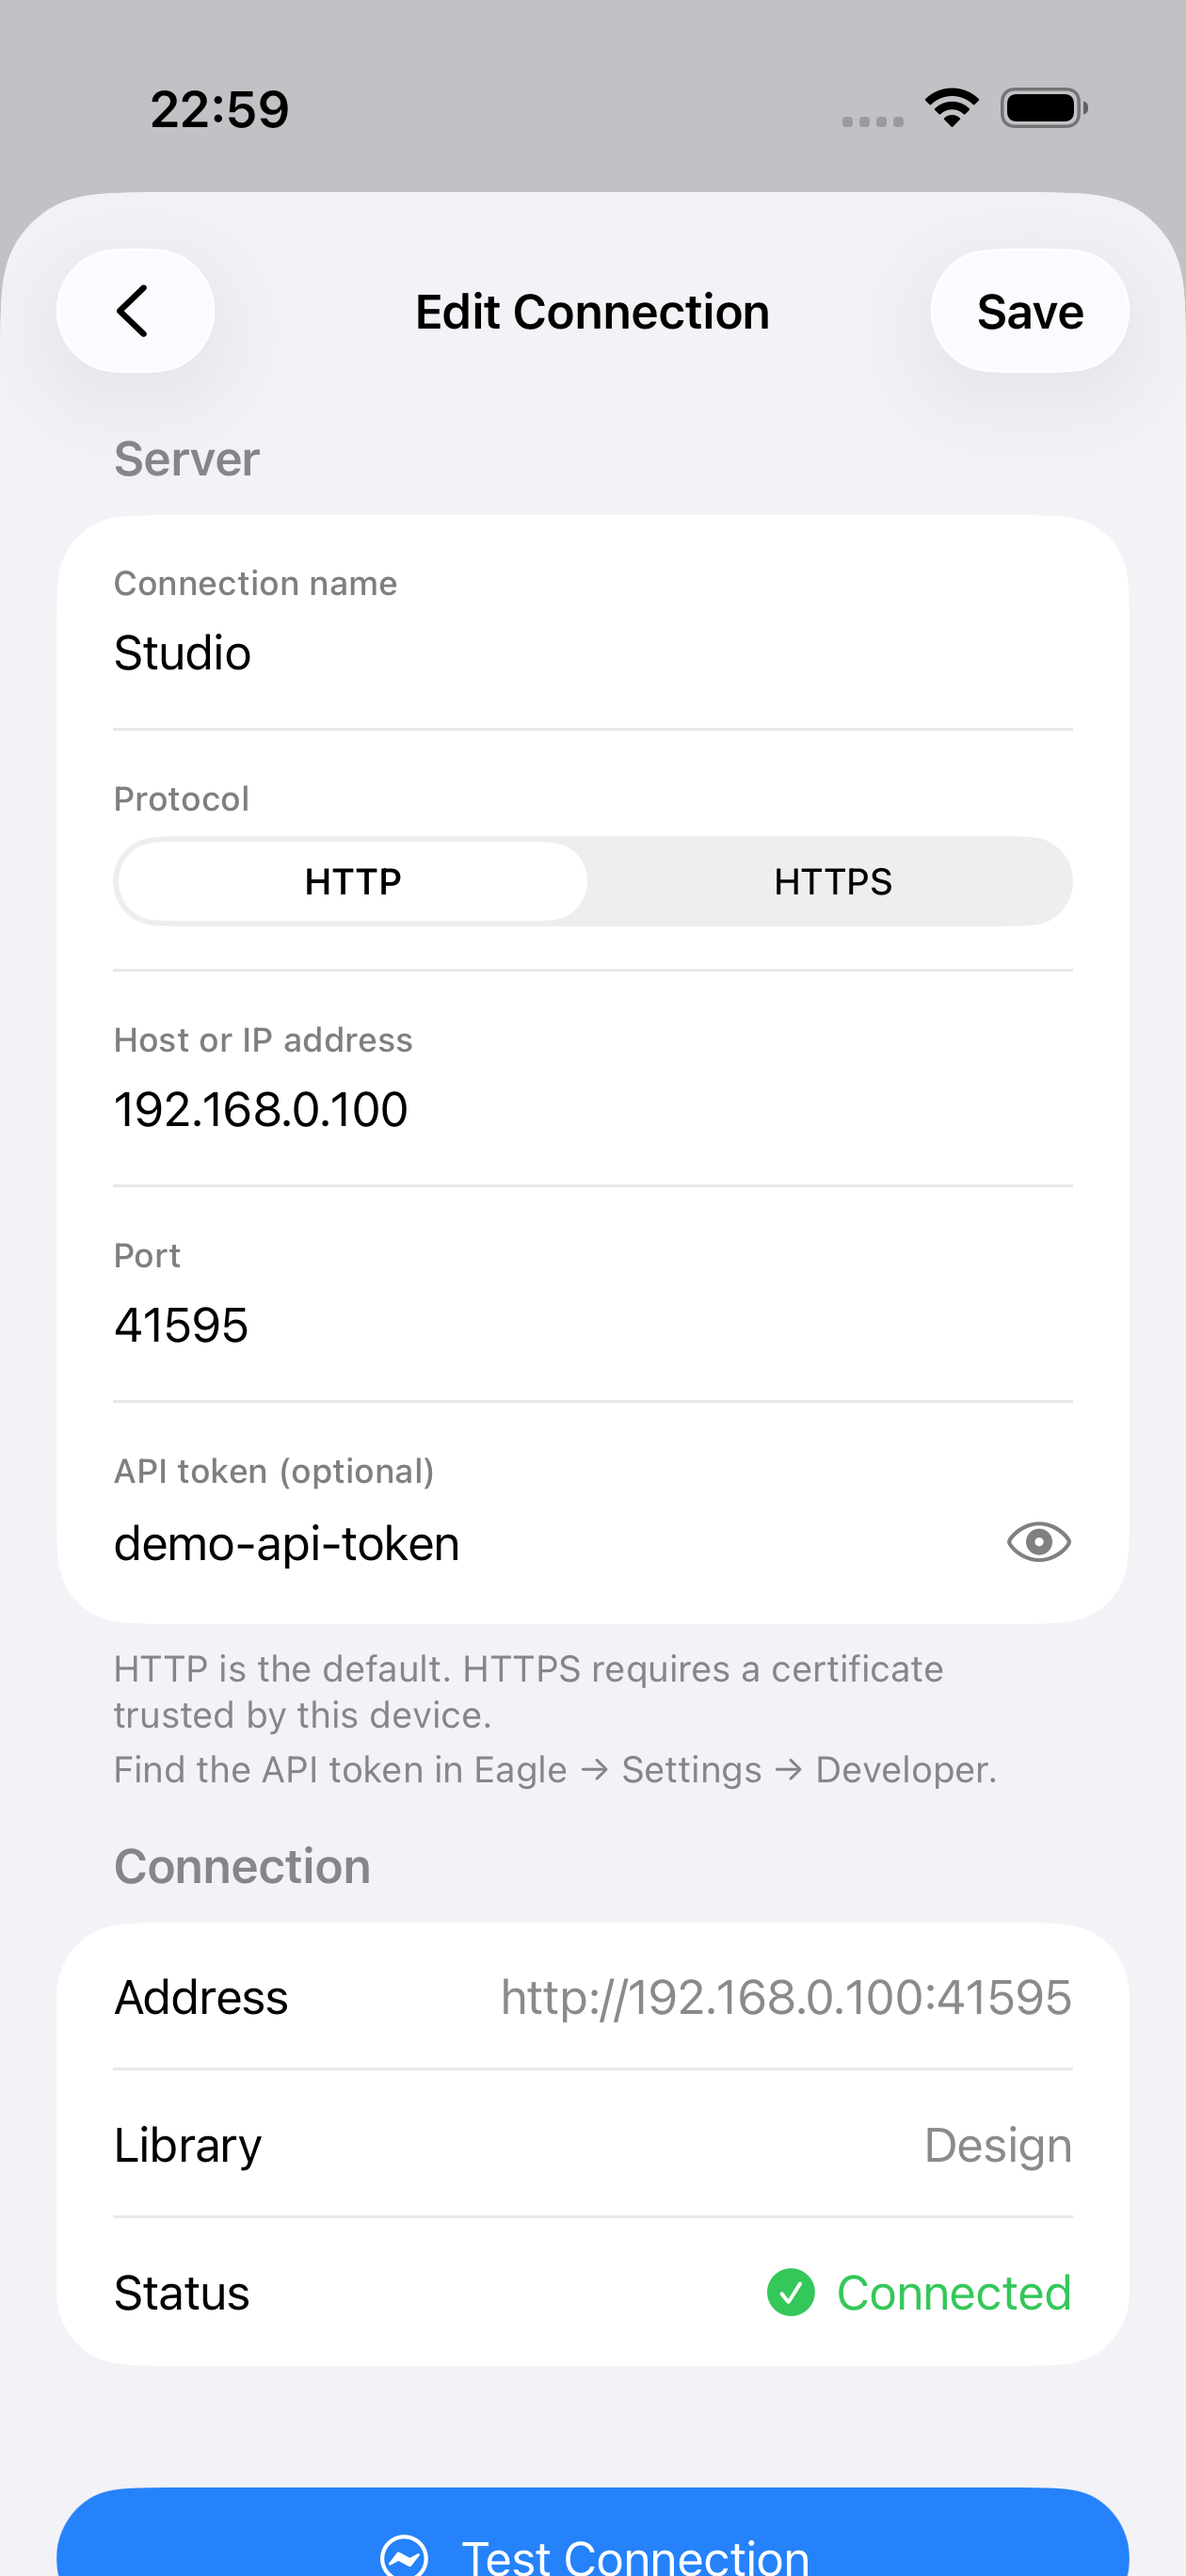
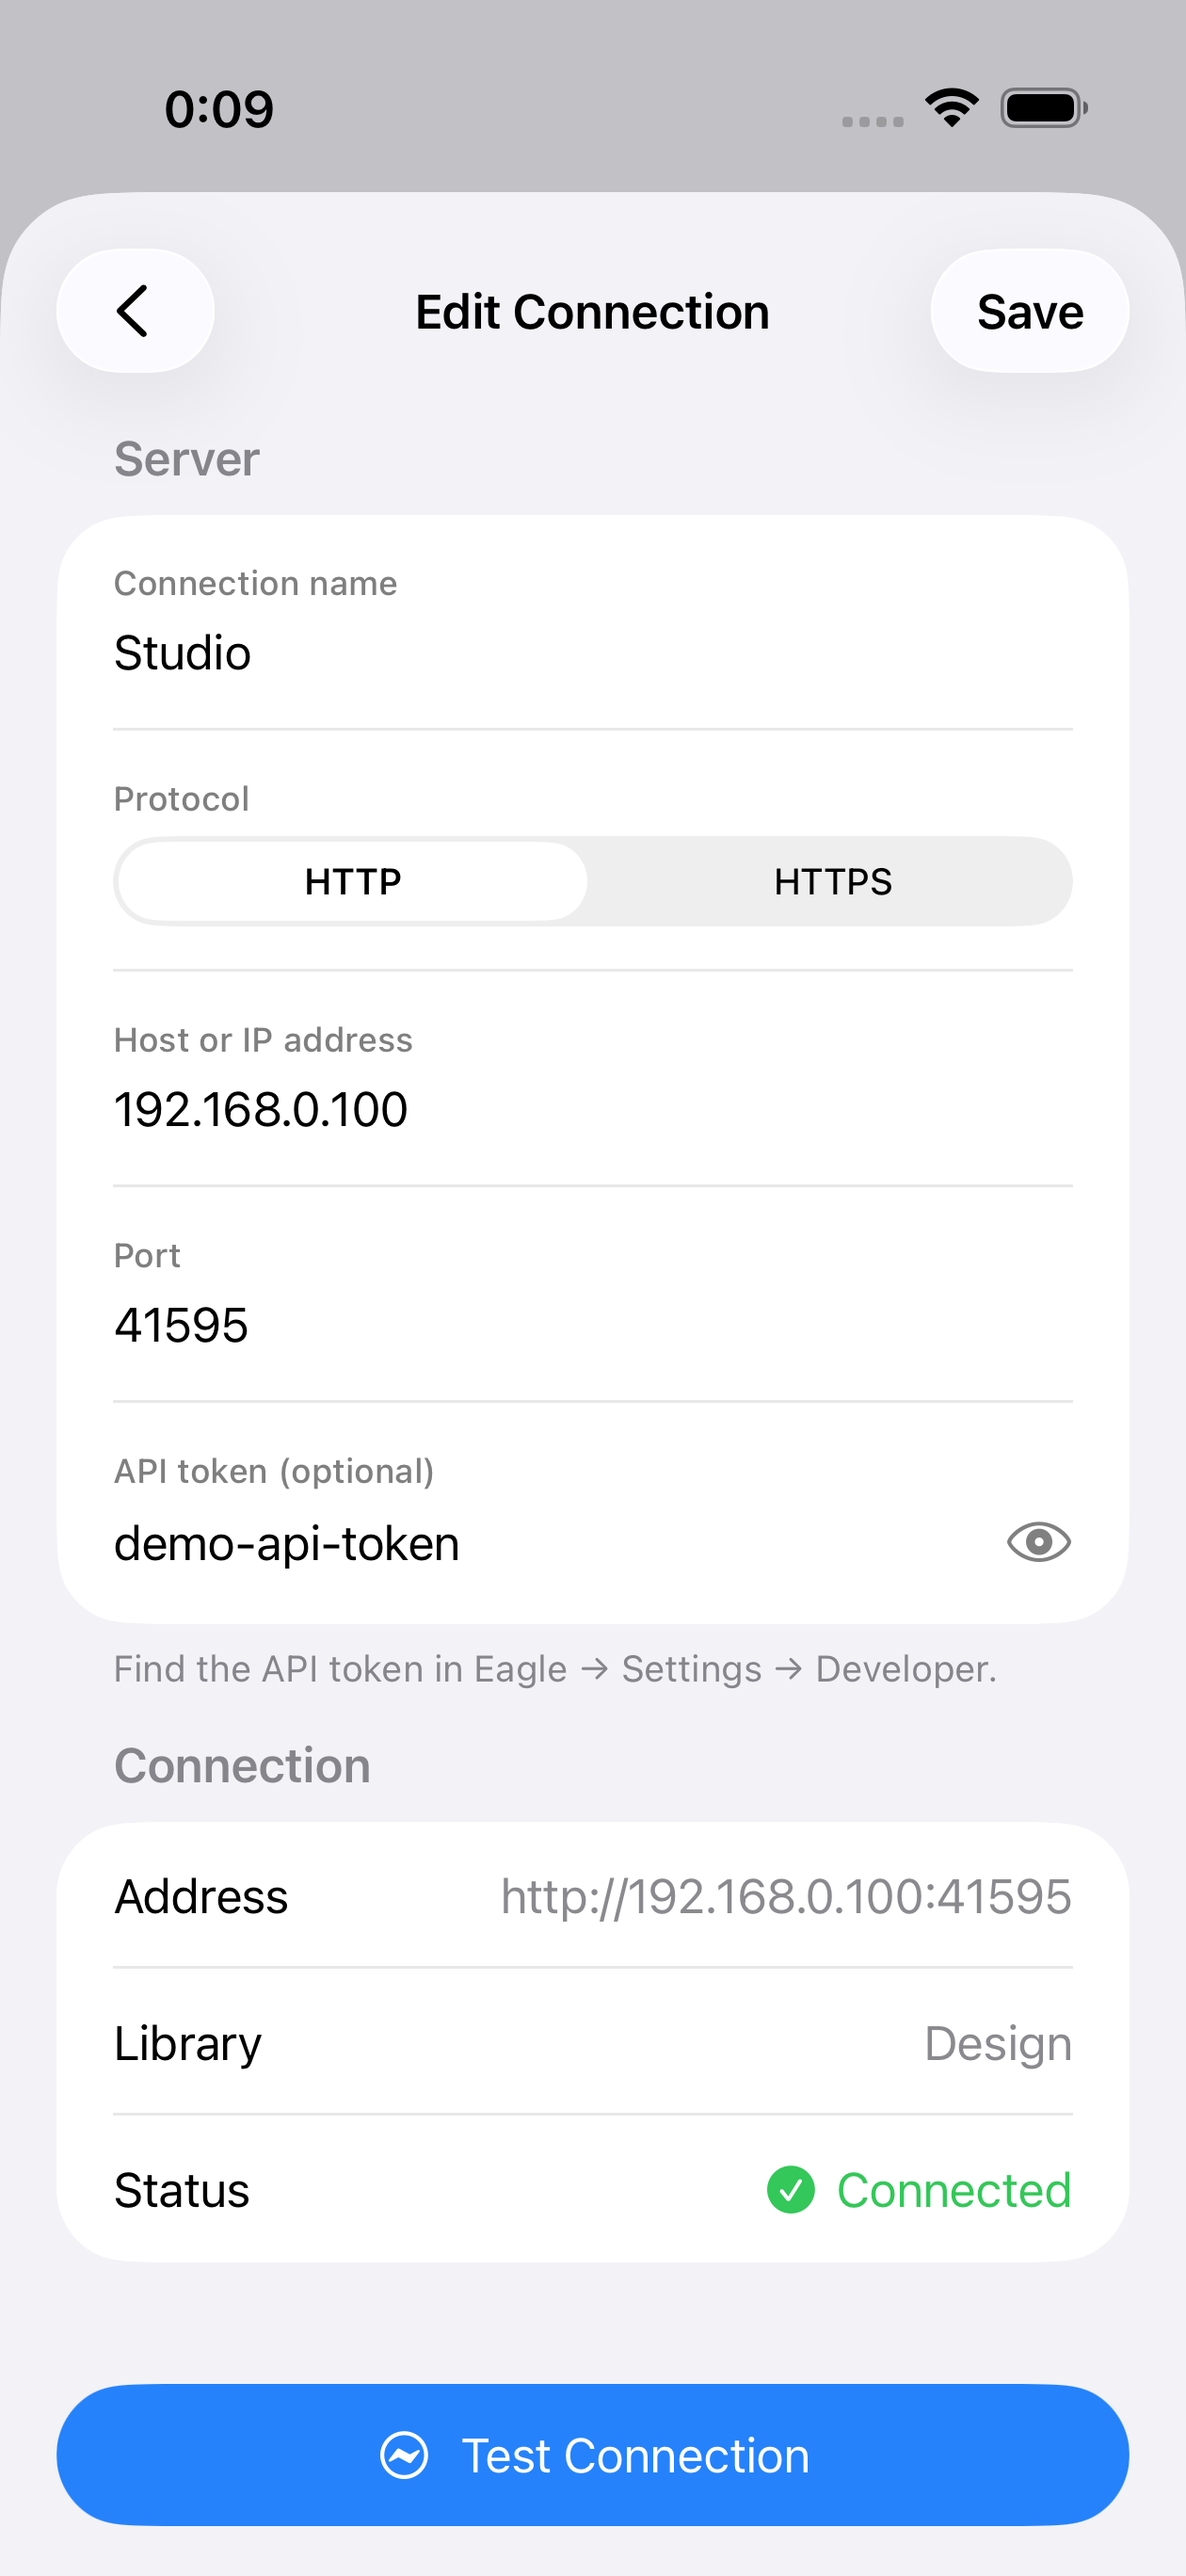
fix: remove redundant HTTPS connection guidance

diff --git a/Shared/ConnectionEditorComponents.swift b/Shared/ConnectionEditorComponents.swift
@@ -140,10 +140,7 @@ struct ConnectionEditorServerSection: View {
         } header: {
             Text("Server")
         } footer: {
-            VStack(alignment: .leading, spacing: 4) {
-                Text("HTTP is the default. HTTPS requires a certificate trusted by this device.")
-                Text("Find the API token in Eagle → Settings → Developer.")
-            }
+            Text("Find the API token in Eagle → Settings → Developer.")
         }
         .disabled(isDisabled)
         .alert("Use HTTPS?", isPresented: $isHTTPSConfirmationPresented) {
